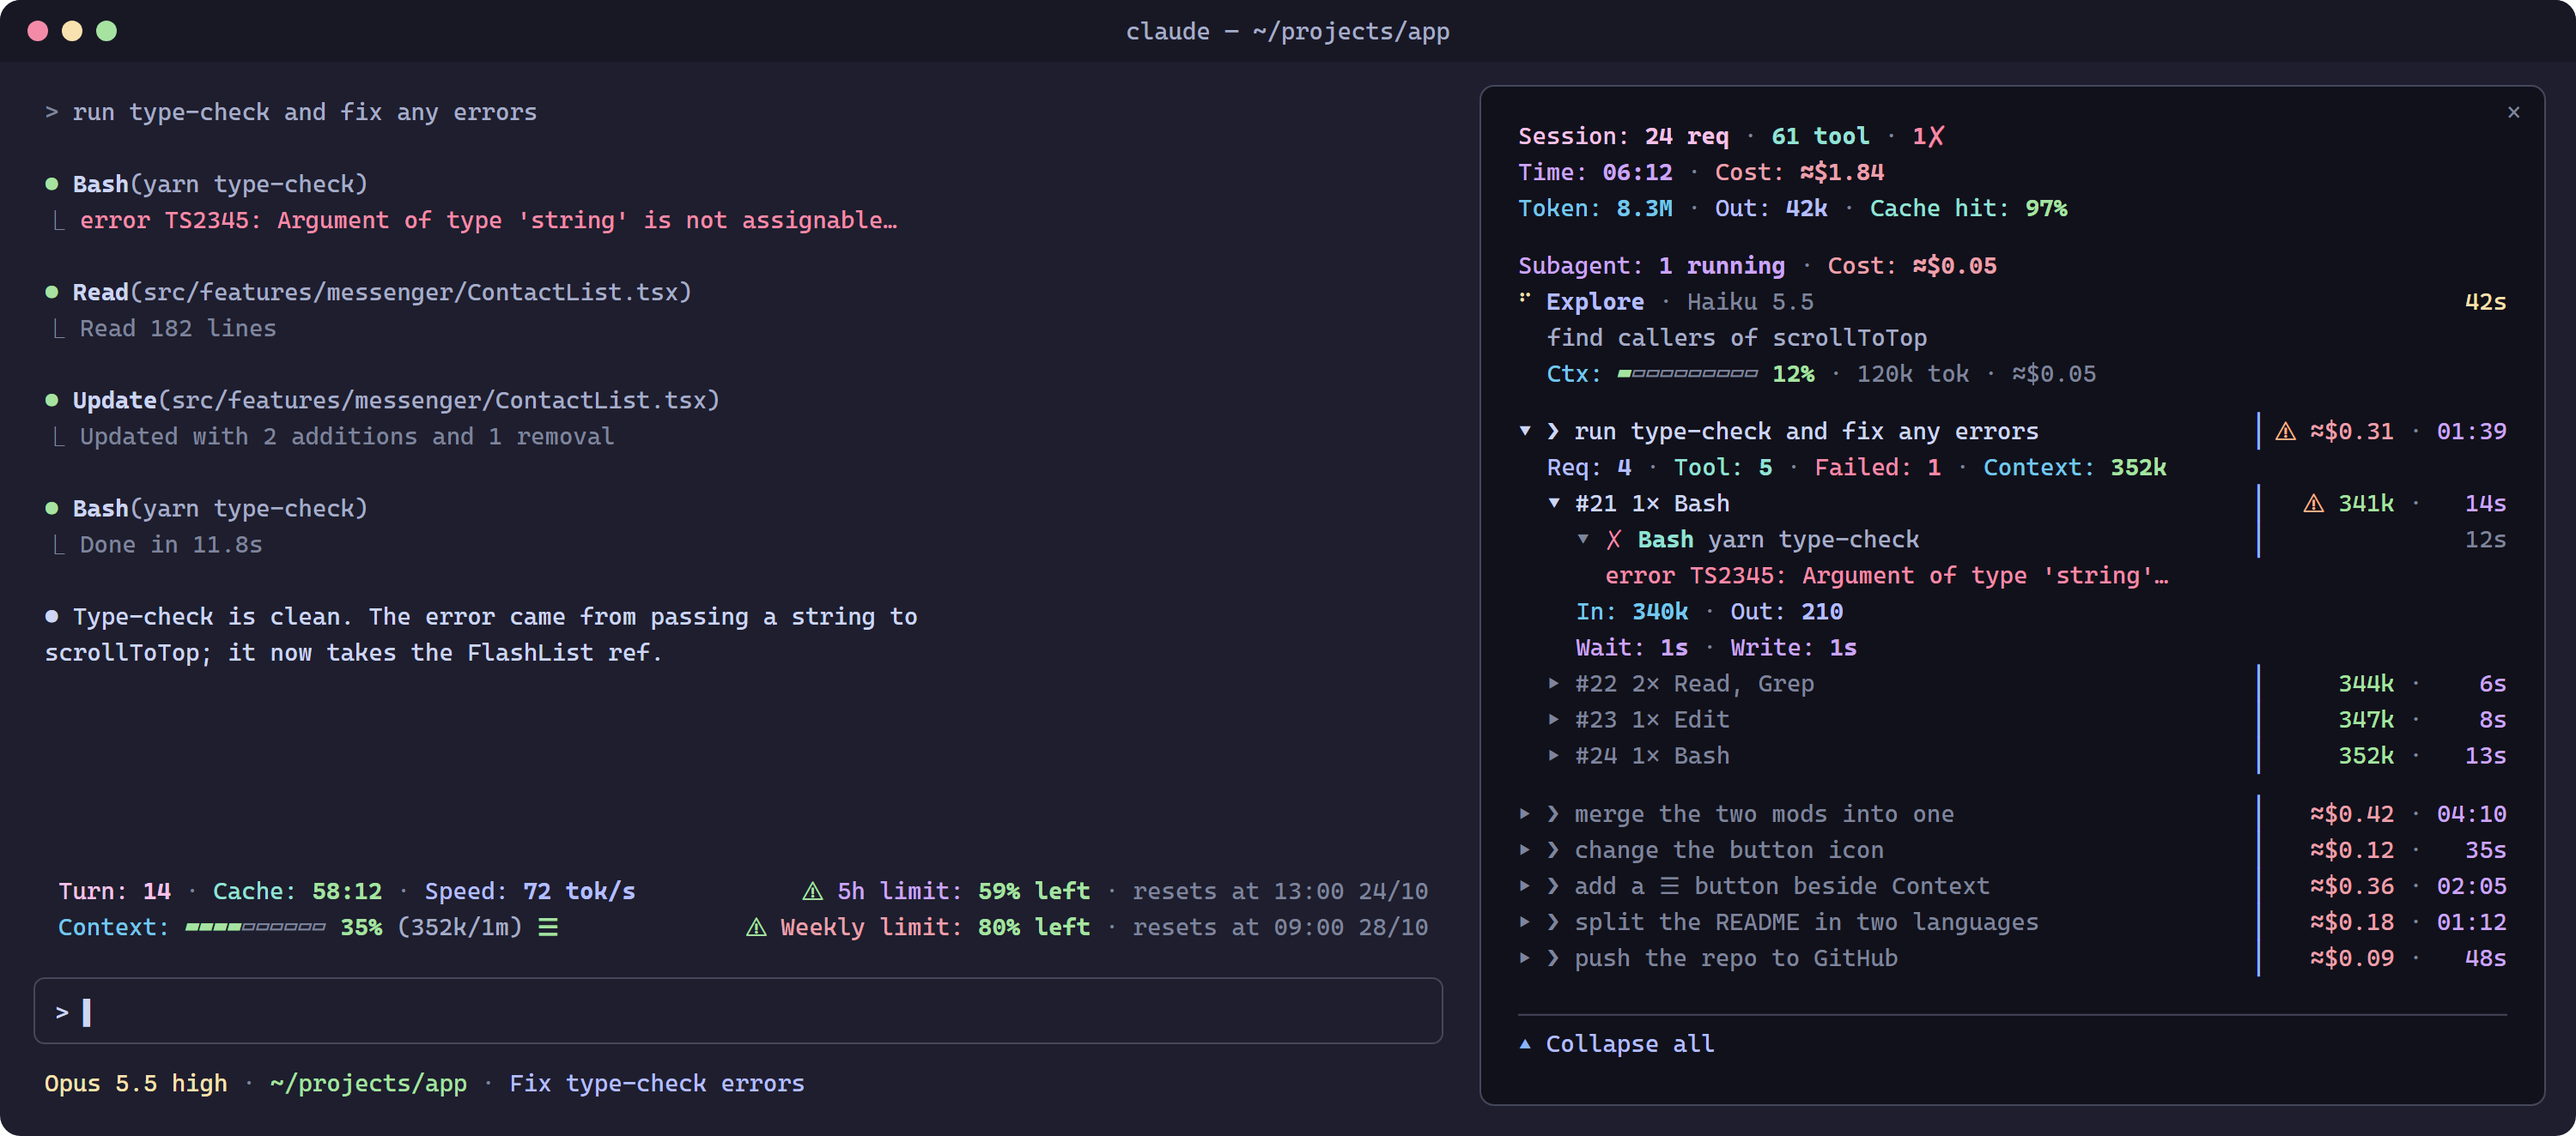
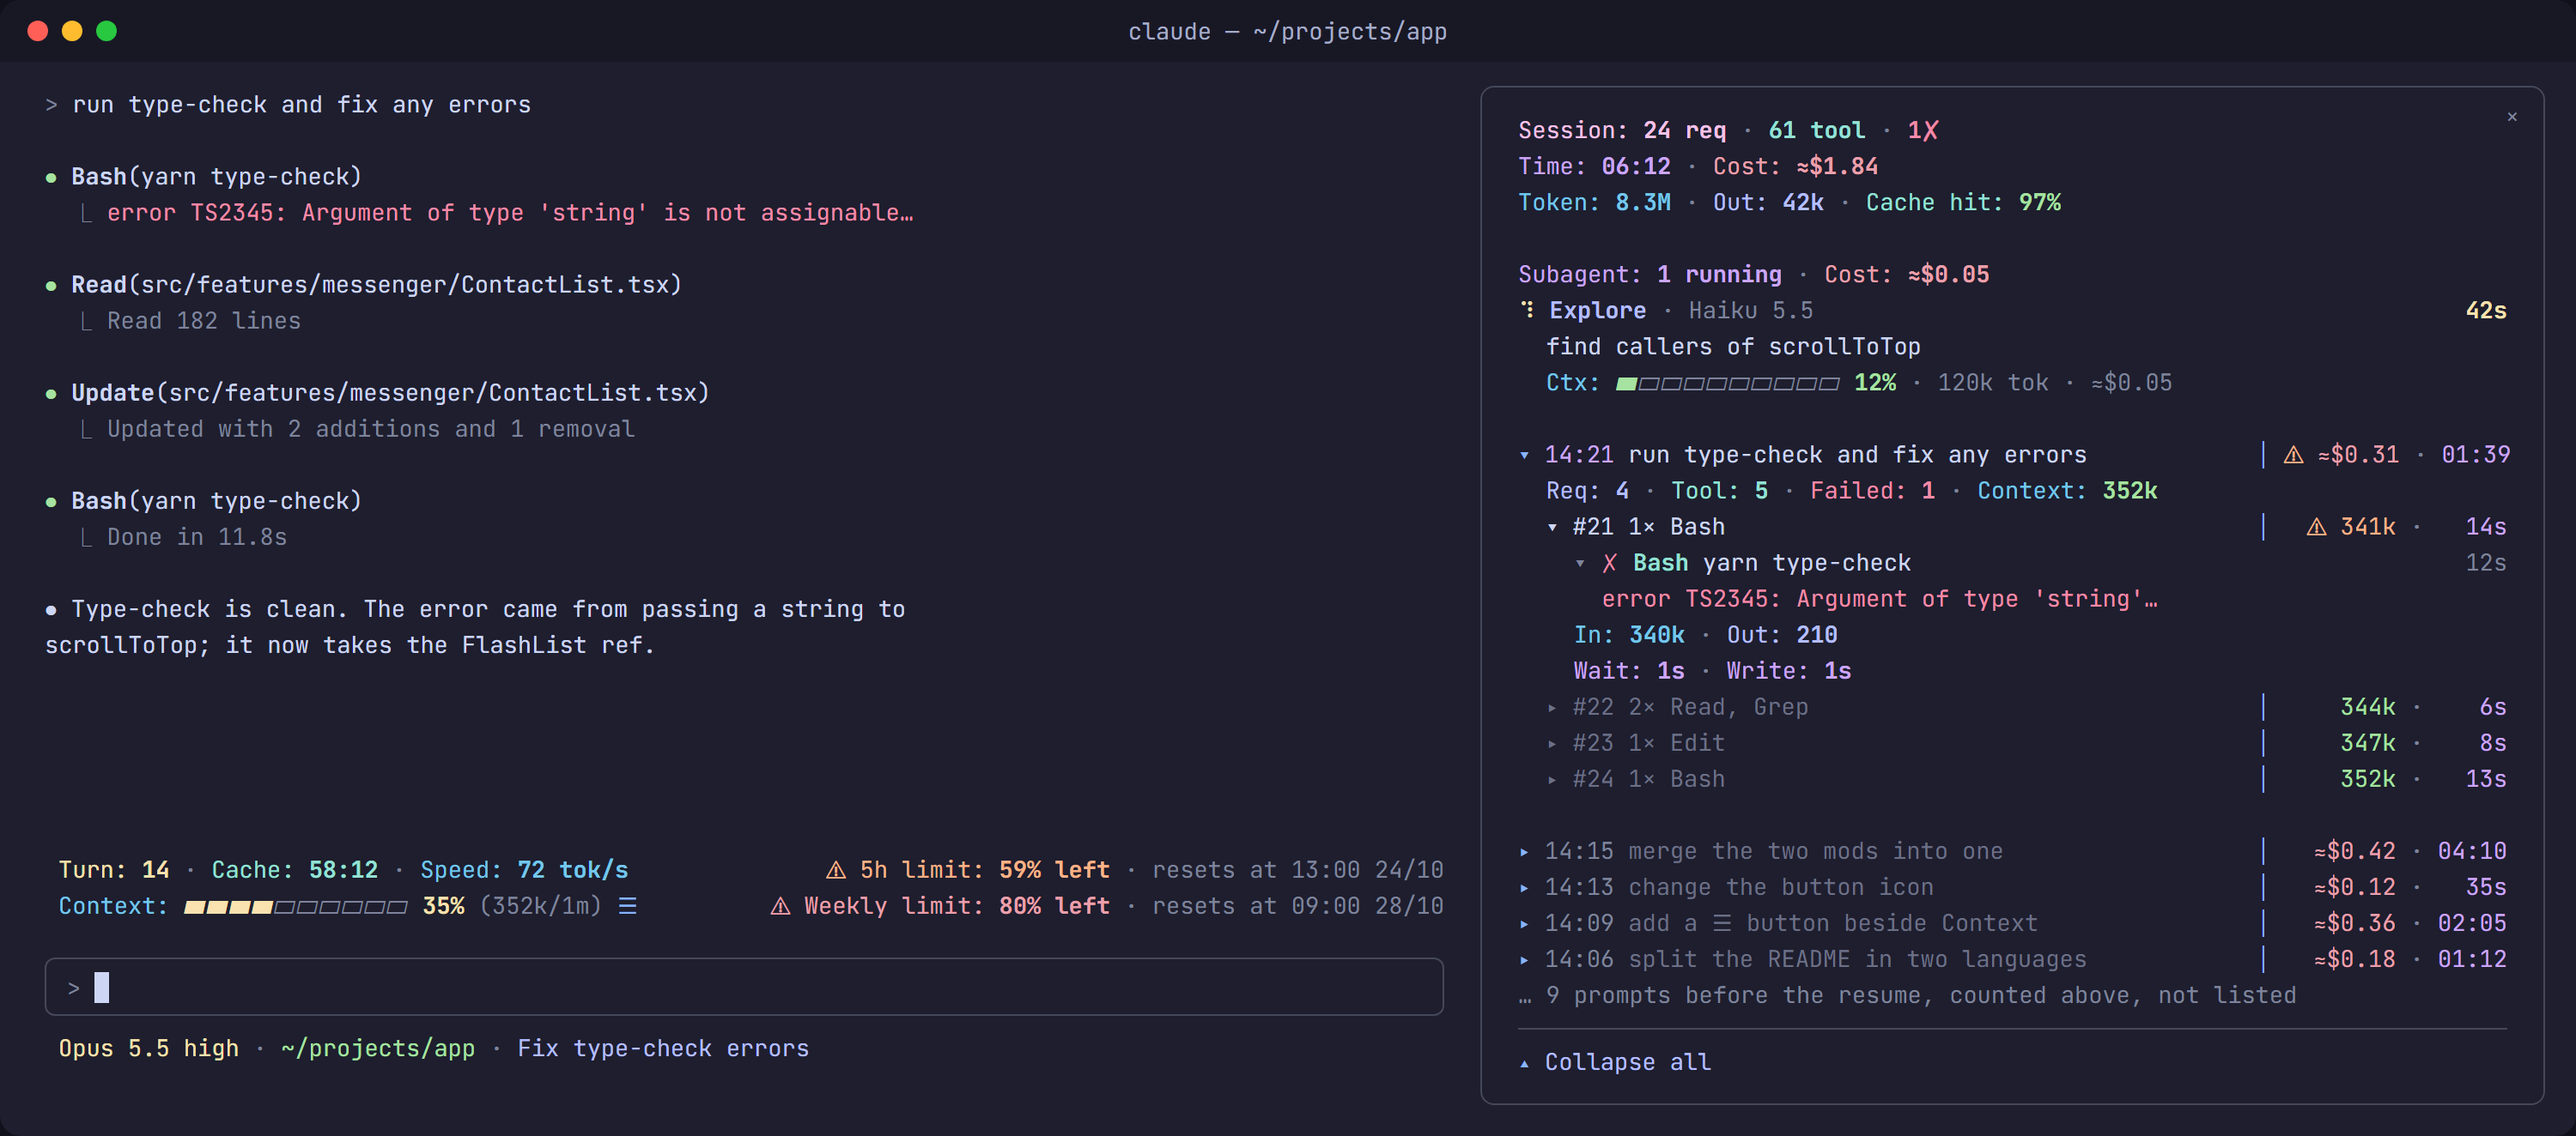
docs: describe the figures a resume keeps and the prompt row's time
- the READMEs name the $.store record, what a resume goes on from and what it drops
- the prompt row's time and the day rule are in the table of what the pane shows
- docs/preview.png redrawn with the new prompt rows and the line counting prompts from before a resume

diff --git a/README.md b/README.md
@@ -92,6 +92,12 @@ module.exports = (d, C) => (d.session_id ? C.teal + "◆ my thing" + C.r : "")
 
 The folder goes when its session ends (exit, `/clear`, a resume). A session's start removes the folders of sessions that ended without removing theirs, a killed one included, and leaves alone those another running session still marks. The session's state keeps only each call's first lines.
 
+| Store | For |
+|---|---|
+| `totals:<session id>` in the mod's own `$.store` (a JSON file under `~/.claude`) | the session lines' figures alone, about ten numbers, saved at each answer and at the session's end; the last 50 sessions are kept |
+
+A resumed session's pane goes on from those figures: its Session, Time, Cost and Token lines count what came before, and the prompts from before the resume show as one line, `… 9 prompts before the resume`. Their rows, requests and tool calls are not kept.
+
 ## Use
 
 | To | How |
@@ -101,7 +107,7 @@ The folder goes when its session ends (exit, `/clear`, a resume). A session's st
 | Move into the pane | `Ctrl+X Tab`, then Tab and Enter; `Ctrl+X X` closes it |
 | Widen or narrow the pane | drag its edge, or `Ctrl+X ←`/`Ctrl+X →` from inside it |
 | See a tool call whole | press its row; `‹ Back` returns to it |
-| Clear what is done | `/activity clear`; `/clear` starts the pane over with the new conversation |
+| Clear what is done | `/activity clear`; `/clear` starts the pane over with the new conversation; a resume goes on from the session's figures |
 | Preview the cache expiry notice | `/session-band demo <minutes>` |
 
 Pressing the band's button writes nothing to the transcript. Running `/activity` (the shortcut too) leaves one command line, about ten tokens.
@@ -113,6 +119,7 @@ Pressing the band's button writes nothing to the transcript. Running `/activity`
 | Session lines, top | requests, tool calls and failures; time and cost; `Token`: every token the API processed, input with its cache reads and output, subagents included (each request sends the conversation again, so it far outgrows the context) · `Out`: tokens written · `Cache hit`: the share of the main loop's input read from the cache |
 | `│` | splits a row: the name on the left, its figures right-aligned on the right |
 | Times | seconds under a minute (`14s`), a clock from a minute (`01:39`, `1:02:40`); the right column pads them to one width so they line up |
+| Prompt row, left | when it was sent (`14:21`, lit while it is open or runs), then its text; where the prompts listed cross midnight, a rule names the day (`── 24/10 ──`) |
 | Prompt row, right | what the prompt cost, subagents included · its whole time; the context it left is in its summary |
 | Request row (`#n`), right | context after that request · time from sending it to its last tool's answer |
 | Tool row, right | how long the tool ran; orange from 30s |
@@ -128,7 +135,7 @@ An `Agent` row opens on the subagent it spawned: its context, cost and tool call
 
 Any other tool row opens its own screen: status, time and result size, then `In` as the tool took it and `Out` whole, as the model read it. `In` is a shell's command as written, with any argument that changes its run (a timeout, a background run) as JSON under it, or another tool's arguments as JSON. A tool that answered with no text (ToolSearch, an image read) shows its result record, an image's data as its size. Colours and control characters are left out of what the screen draws, not of the file. Past 80,000 characters the screen names the file that holds the rest.
 
-The pane keeps the running session alone: up to 100 prompts, 300 requests, 1000 tool calls, 100 subagents.
+The pane lists what this process saw of the session: up to 100 prompts, 300 requests, 1000 tool calls, 100 subagents. Only the session lines' figures outlive it.
 
 ## Layout
 
